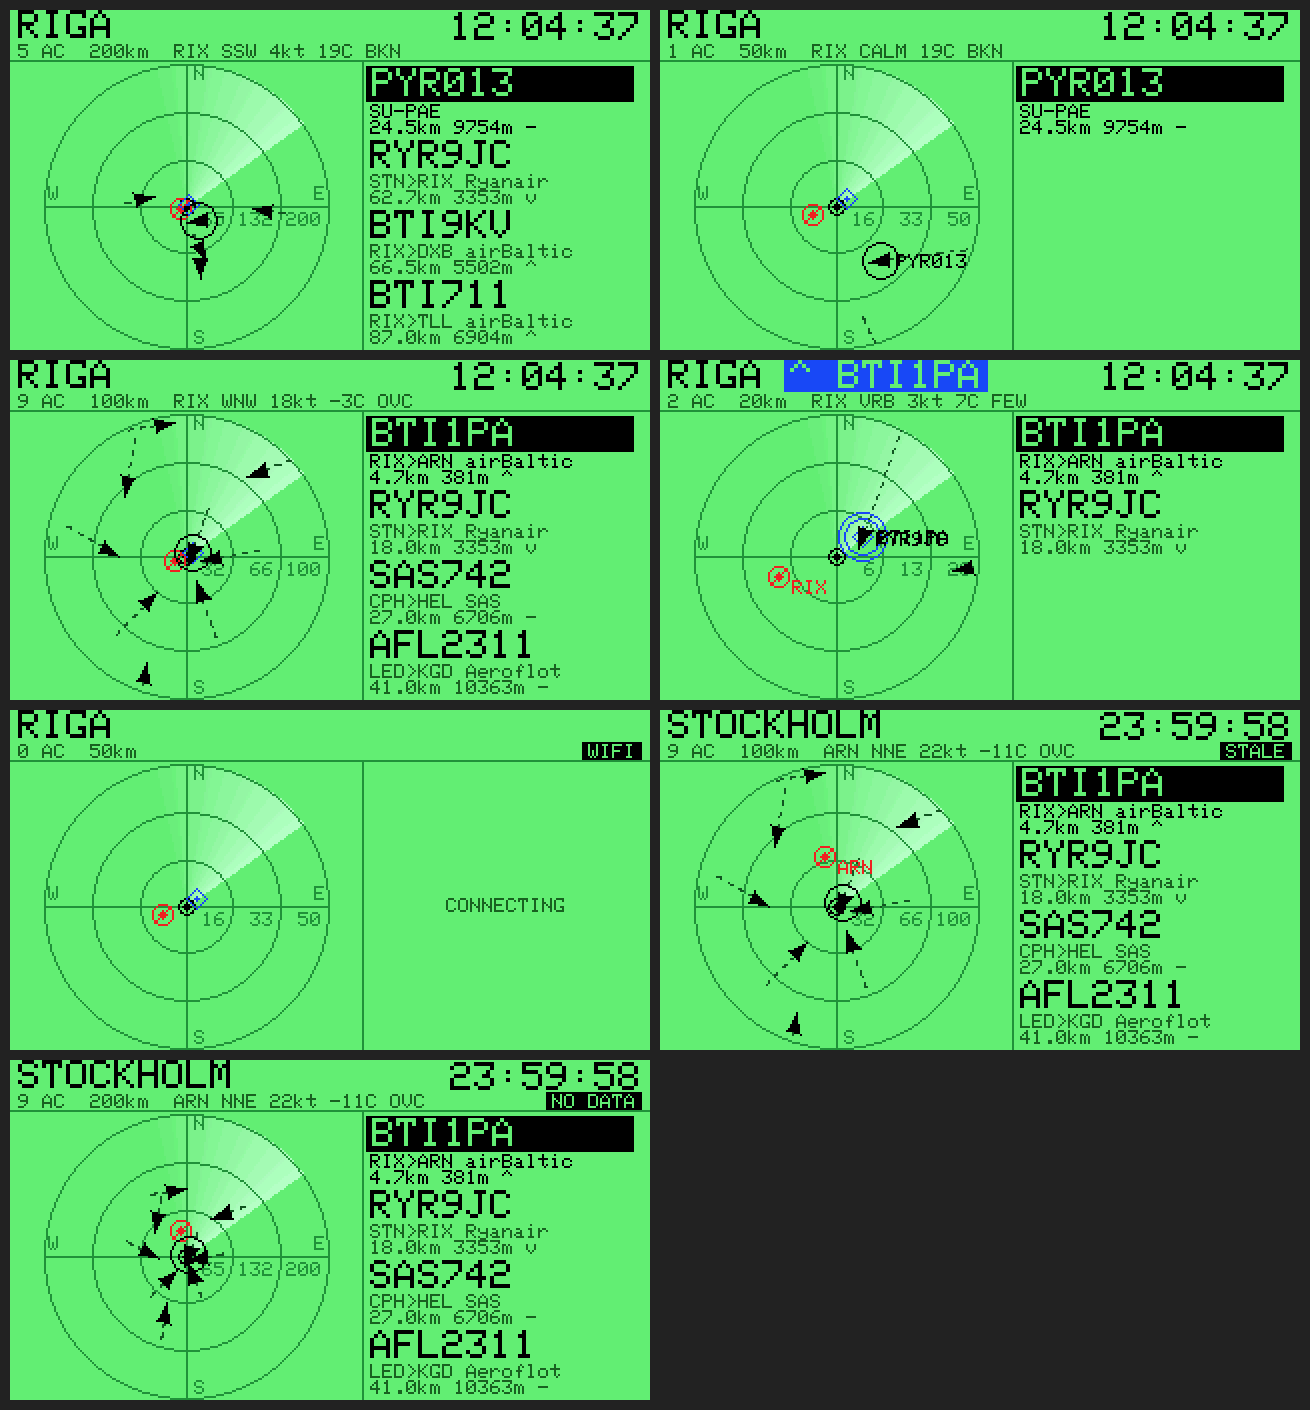
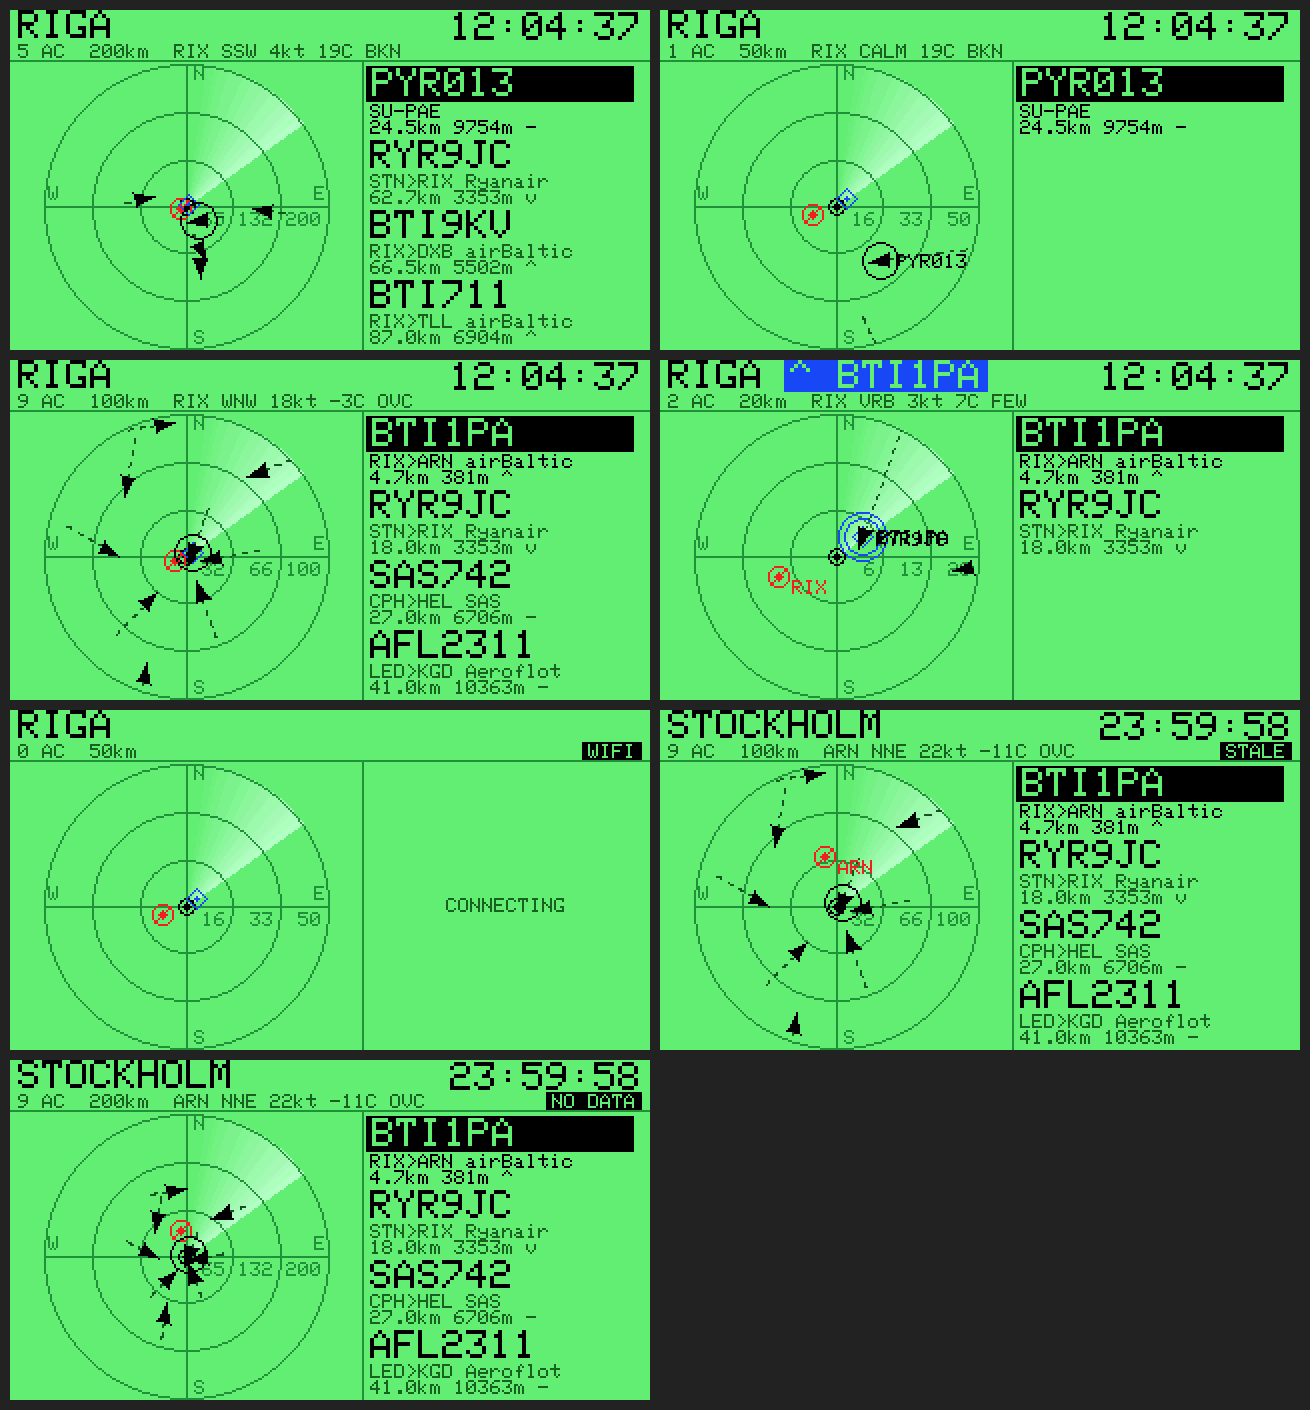
Narrow the sweep wedge by 30 percent
70 degrees of trail was a fifth of the scope; 49 reads as a sweep rather than a
shaded sector. Step count drops with it to keep the same angular density.

diff --git a/src/config.h b/src/config.h
@@ -145,8 +145,8 @@ static const uint32_t BUTTON_DEBOUNCE_MS = 40;
 // no visible gap between them out at the rim.
 // ---------------------------------------------------------------------------
 static const uint32_t SWEEP_PERIOD_MS = 4000;
-static const int SWEEP_TAIL_STEPS = 90;
-static const float SWEEP_TAIL_DEG = 70.0f;
+static const int SWEEP_TAIL_STEPS = 63;
+static const float SWEEP_TAIL_DEG = 49.0f;
 
 static const uint32_t WEATHER_INTERVAL_MS = 600000;  // METARs are issued every 30 min
 static const uint32_t WEATHER_RETRY_MS    = 60000;   // ... but retry sooner after a failure
